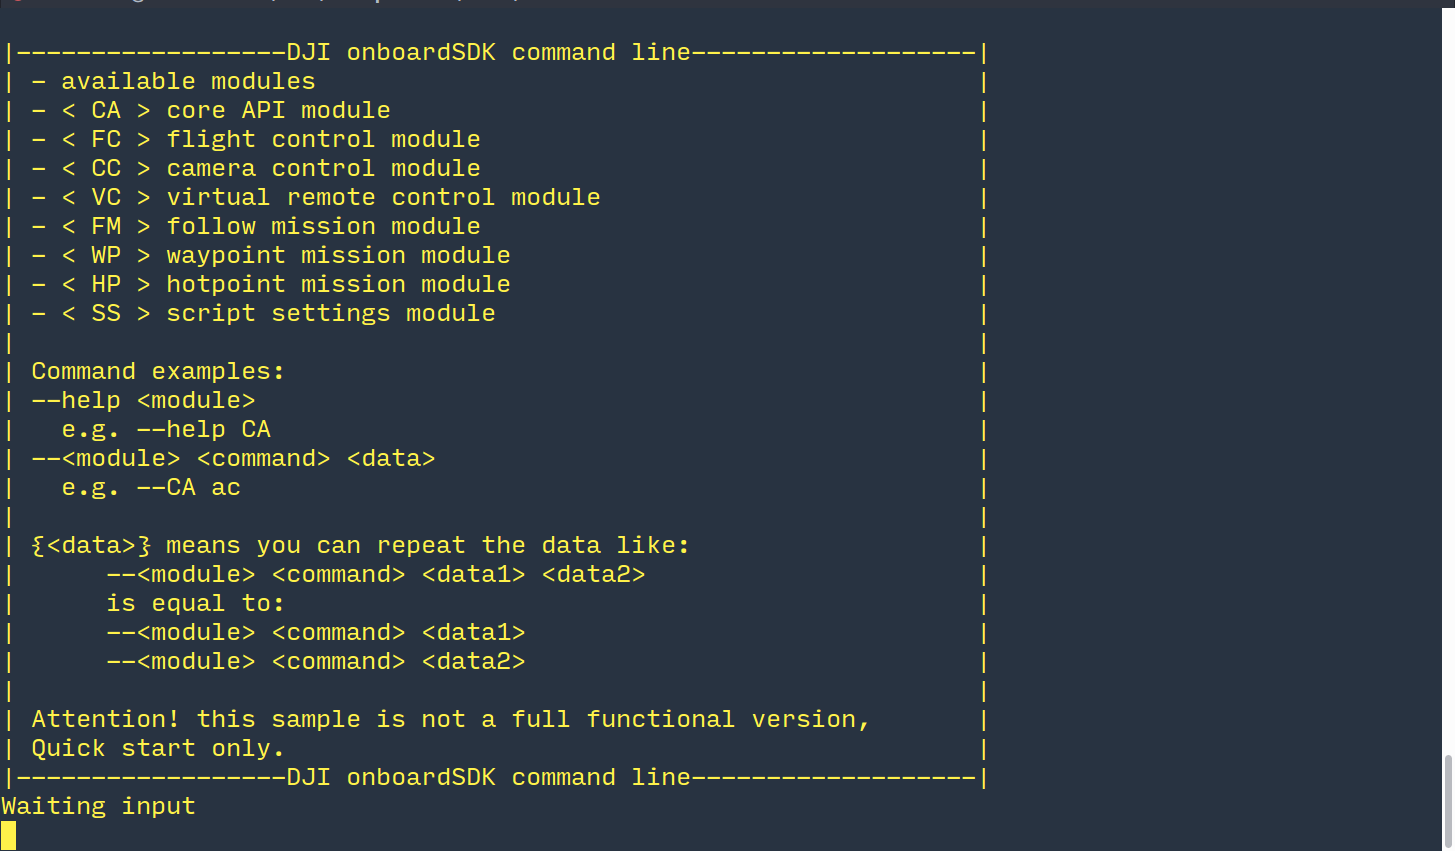
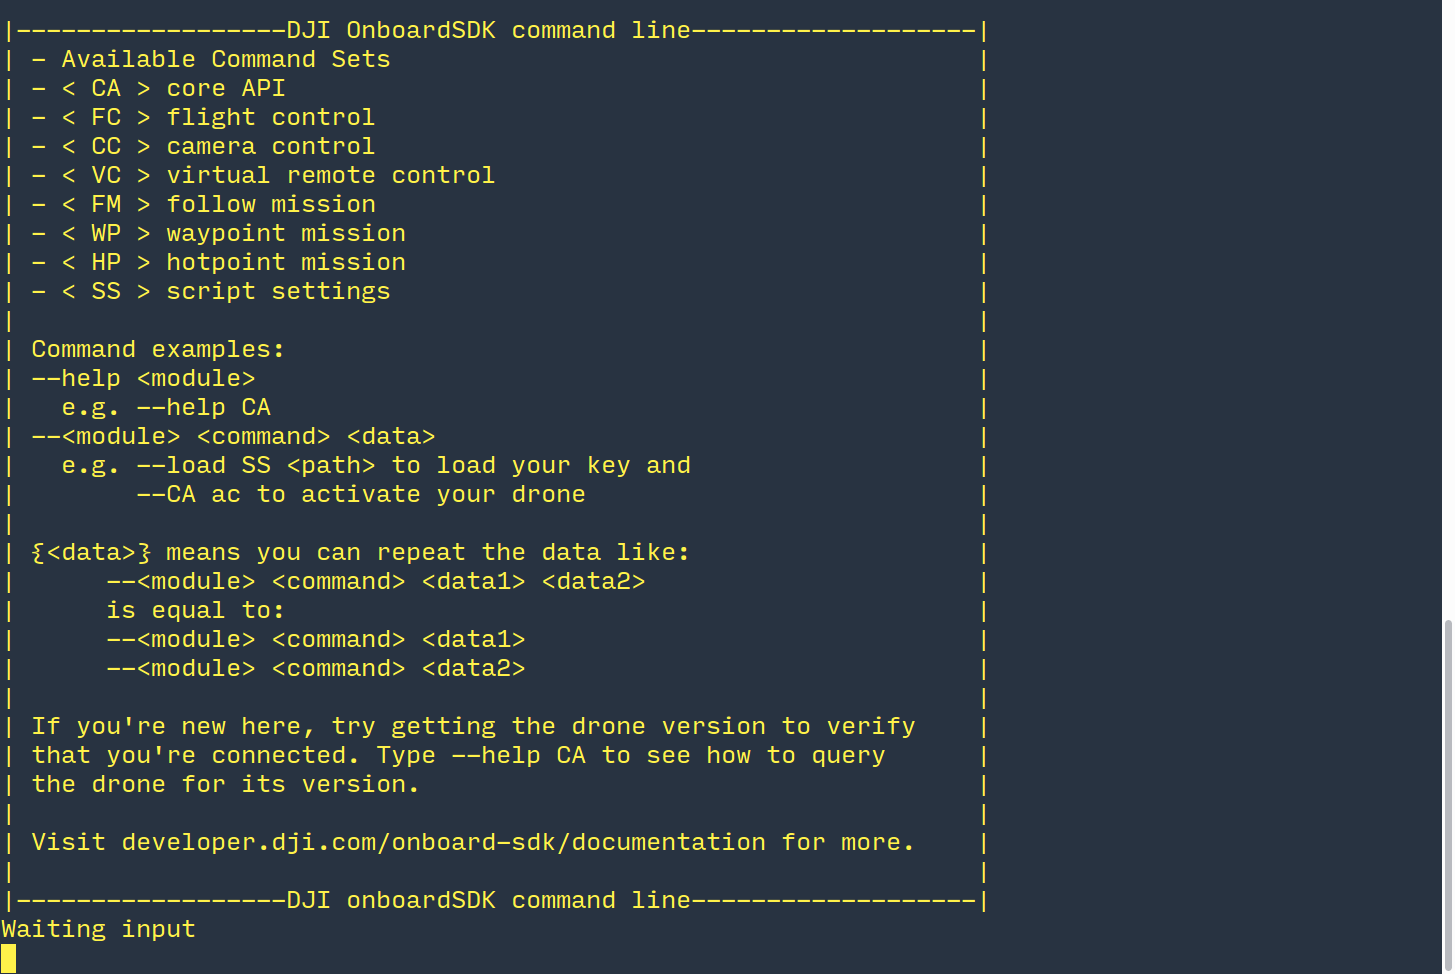
Updated commandline sample in preparation of new OSDK release

Changed region(s): [[0.0, 0.0, 0.6804, 0.9777], [0.9897, 0.6416, 1.0, 0.886], [0.9897, 0.0, 1.0, 0.0306]]

diff --git a/source/github-platform-docs/commandline/README.md b/source/github-platform-docs/commandline/README.md
@@ -1,7 +1,7 @@
 ---
 title: DJI Onboard SDK Command Line Example
-version: v3.1 
-date: 2016-06-24
+version: v3.1.7 
+date: 2016-07-01
 github: https://github.com/dji-sdk/Onboard-SDK/tree/3.1/sample/commandline
 ---
 
@@ -25,7 +25,7 @@ With it you can run the following commands:
 * Hotpoint Task
 * Follow Me Task
 
- > Note: The Command line example is currently undergoing a major revamp. We expect to have a new version very soon which fixes many longstanding bugs and makes operation simpler and more reliable. Some of these instructions may not work with the current release and are meant for the newer version.
+ > The command line example has recently undergone a major functionality rewrite. Try it out!   
 
 ## Setup
 
@@ -45,18 +45,18 @@ To build the command line example, you need:
 
 All of these should be available with an installation of Ubuntu 14.04.
 
-**Newer versions of gcc/g++ generate compilation warnings which can safely be ignored. Future releases will correct this problem.*
+**Newer versions of gcc/g++ also work - they generate compilation warnings, but these can safely be ignored. Future releases will correct this problem.*
 
 **Compilation**
 
-1. Set your serial port and baud rate in main.cpp inside the `sample/Linux/conboardsdk` directory.
-2. Open up a terminal inside the `sample/Linux` directory and type `make` at the command prompt.
-3. To access the serial port, add your username to the dialout group by typing `sudo usermod -a -G dialout $USER`. Then logout and login again.
+1. Set your serial port, baud rate, and drone/SDK version in `User_Config.h` inside the `sample/commandline/Linux/inc` directory.
+2. Open up a terminal inside the `sample/commandline/Linux` directory and type `make` at the command prompt.
+3. To access the serial port, add your username to the dialout group by typing `sudo usermod -a -G dialout $USER` (you do not need to replace $USER with your username). **Then logout and login again.**
 
 **Using the Simulator**
 
-1. Connect your M100 to a PC through USB.
-2. Open up DJI Assistant 2. Click on the DJI M100 button. If this button doesn't show up, try disconnecting and reconnecting the USB.
+1. Connect your M100/A3 to a PC through USB.
+2. Open up DJI Assistant 2. Click on the DJI M100/A3 button. If this button doesn't show up, try disconnecting and reconnecting the USB.
 3. Click on the Simulator tab, and then click on the 'Open' button. A separate window should pop up in a few seconds.
 ![Sim1](../../images/cmdline/Simulator_Open.png)
 4. In the main window, click on 'Start Emulating'.
@@ -68,12 +68,16 @@ The first time a drone/OES combination is used, it needs to be activated. Activa
 ![ActivationSetup](../../images/common/activation_1.png)
 
 1. [Enable API control](../../quick-start/index.html#3-Enable-Flight-Controller-API-control) and [get an app ID and key](../../quick-start/index.html#5-Onboard-Application-Registration).
-2. Navigate to `sample/Linux/key.txt` and enter your App ID and Key in place of the defaults in that file.
-3. Navigate to the `sample/Linux/bin` folder and run the commandline example. 
+2. Navigate to `sample/commandline/Linux/key.txt` and enter your App ID and Key in place of the defaults in that file.
+3. Navigate to the `sample/commandline/Linux/bin` folder and run the commandline example by typing `./onboardSDK`. 
+    
+    *Note: At this point, the commandline example will automatically attempt to activate your setup. If everything is setup as explained, you will see an 'Automatic Activation Successful' message. If you do, skip steps 4 and 5. You are done with activation!*
+    ![Auto Activation](../../images/cmdline/Cmdline_autoActivate.png)
+
 4. Once the example is running, type `--SS load ../key.txt`. Your App ID and Key should be displayed on the terminal.
 ![SS_Load](../../images/cmdline/Cmdline_ActivationStep1.png)
 
-5. Next, type `--CA ac`. You should receive some feedback on the terminal. If the message says 'Activation Successfully' (sic), you are done. Else, follow the error message to debug.
+5. Next, type `--CA ac`. You should receive some feedback on the terminal. If the message says 'Activated Successfully', you are done. Else, follow the error message to debug.
 ![CA_Ac](../../images/cmdline/Cmdline_ActivationStep2.png)
 ![Activation_Successful](../../images/cmdline/Cmdline_ActivationSuccessful.png)
 
@@ -87,6 +91,7 @@ Operating the Commandline example is a lot like the activation process you just 
 
 
 Note that loading your key and performing the activation step is necessary each time. After the first time, the activation command merely performs a local activation check and you are not required to be connected to the internet.
+The sample will attempt automatic activation each time it is started.
 
 ## Examples
 
@@ -100,7 +105,7 @@ In general, for running any single task you are presented with a screen that loo
 
 #### 2. Activation
 
-Let us load the key and activate the device as in the activation section.
+For the purposes of this example, assume that the automatic activation did not go through. Let us load the key and activate the device as in the activation section.
 ![Activation_Successful](../../images/cmdline/Cmdline_ActivationSuccessful.png)
 
 #### 3. Obtain flight control.
@@ -134,4 +139,4 @@ Similar to takeoff, type `--FC tk 1` to return home. `--FC tk 6` executes landin
 
 The `--CA ct 0` command will now allow you to release control.
 
-> There are known bugs with some functions in the commandline example. We expect to have a fully functional commandline version very soon. 
+> A3 support is currently in beta. Please file issues on the github repo if you find any!
